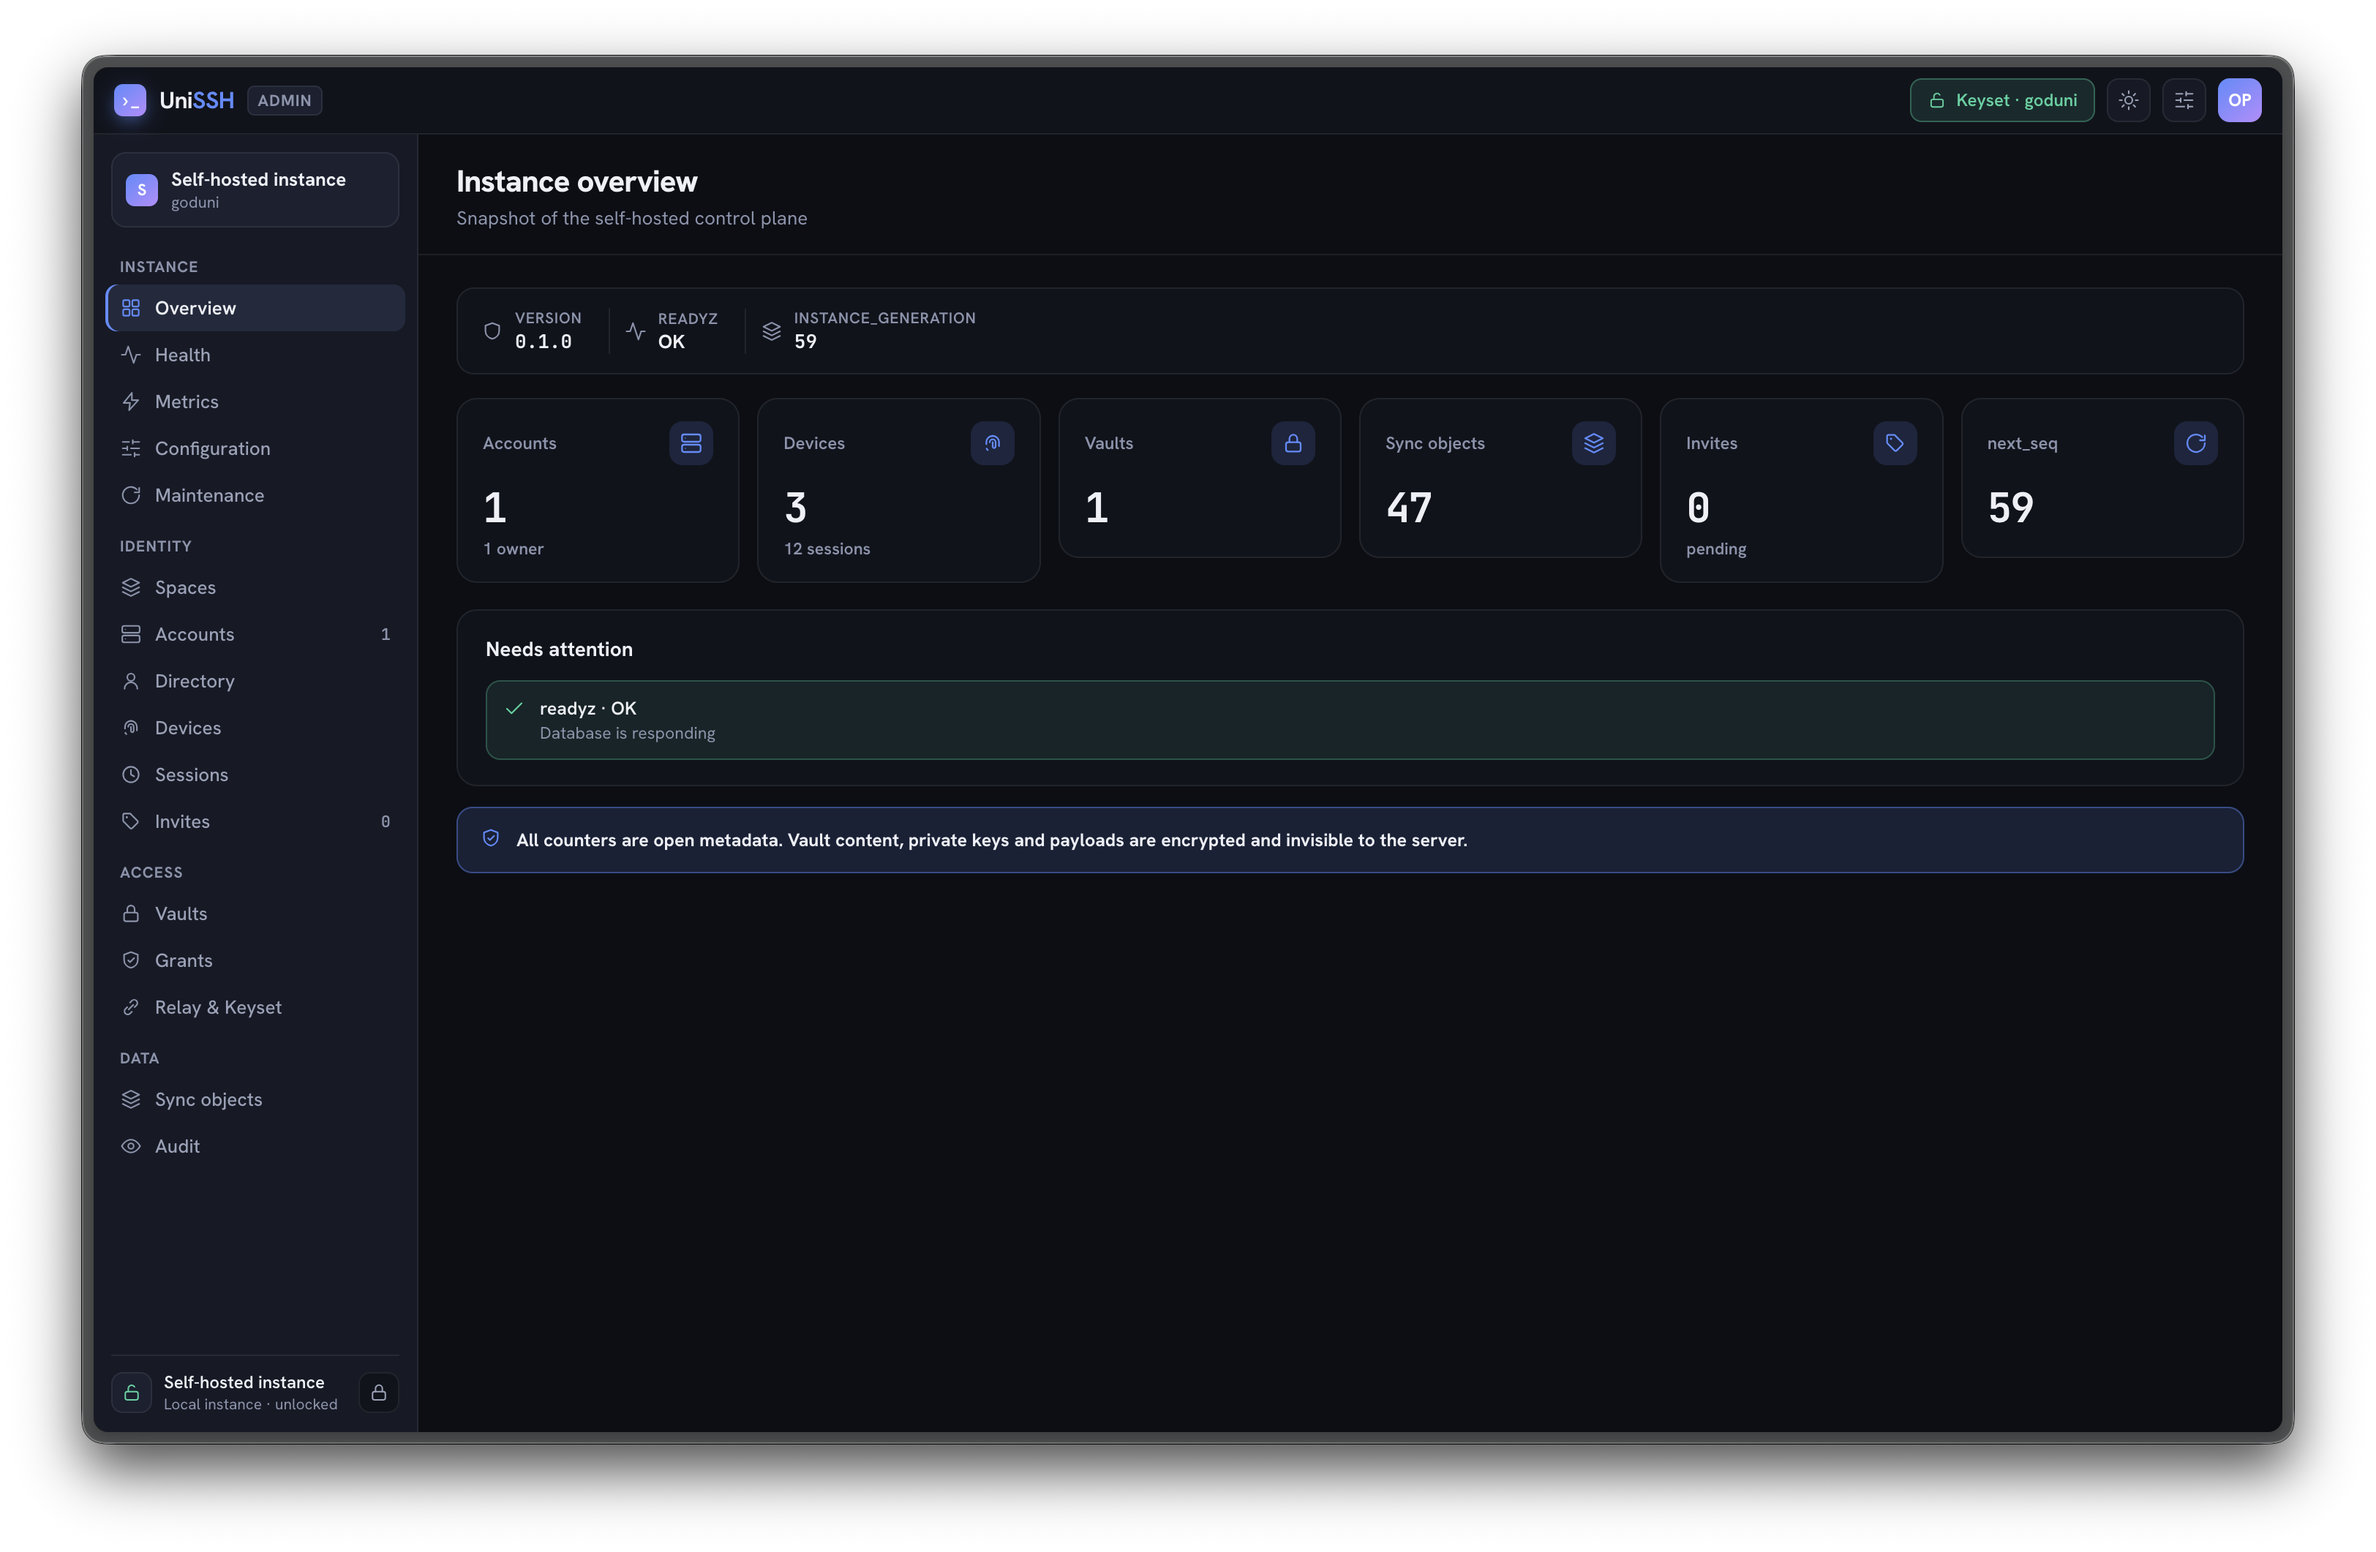
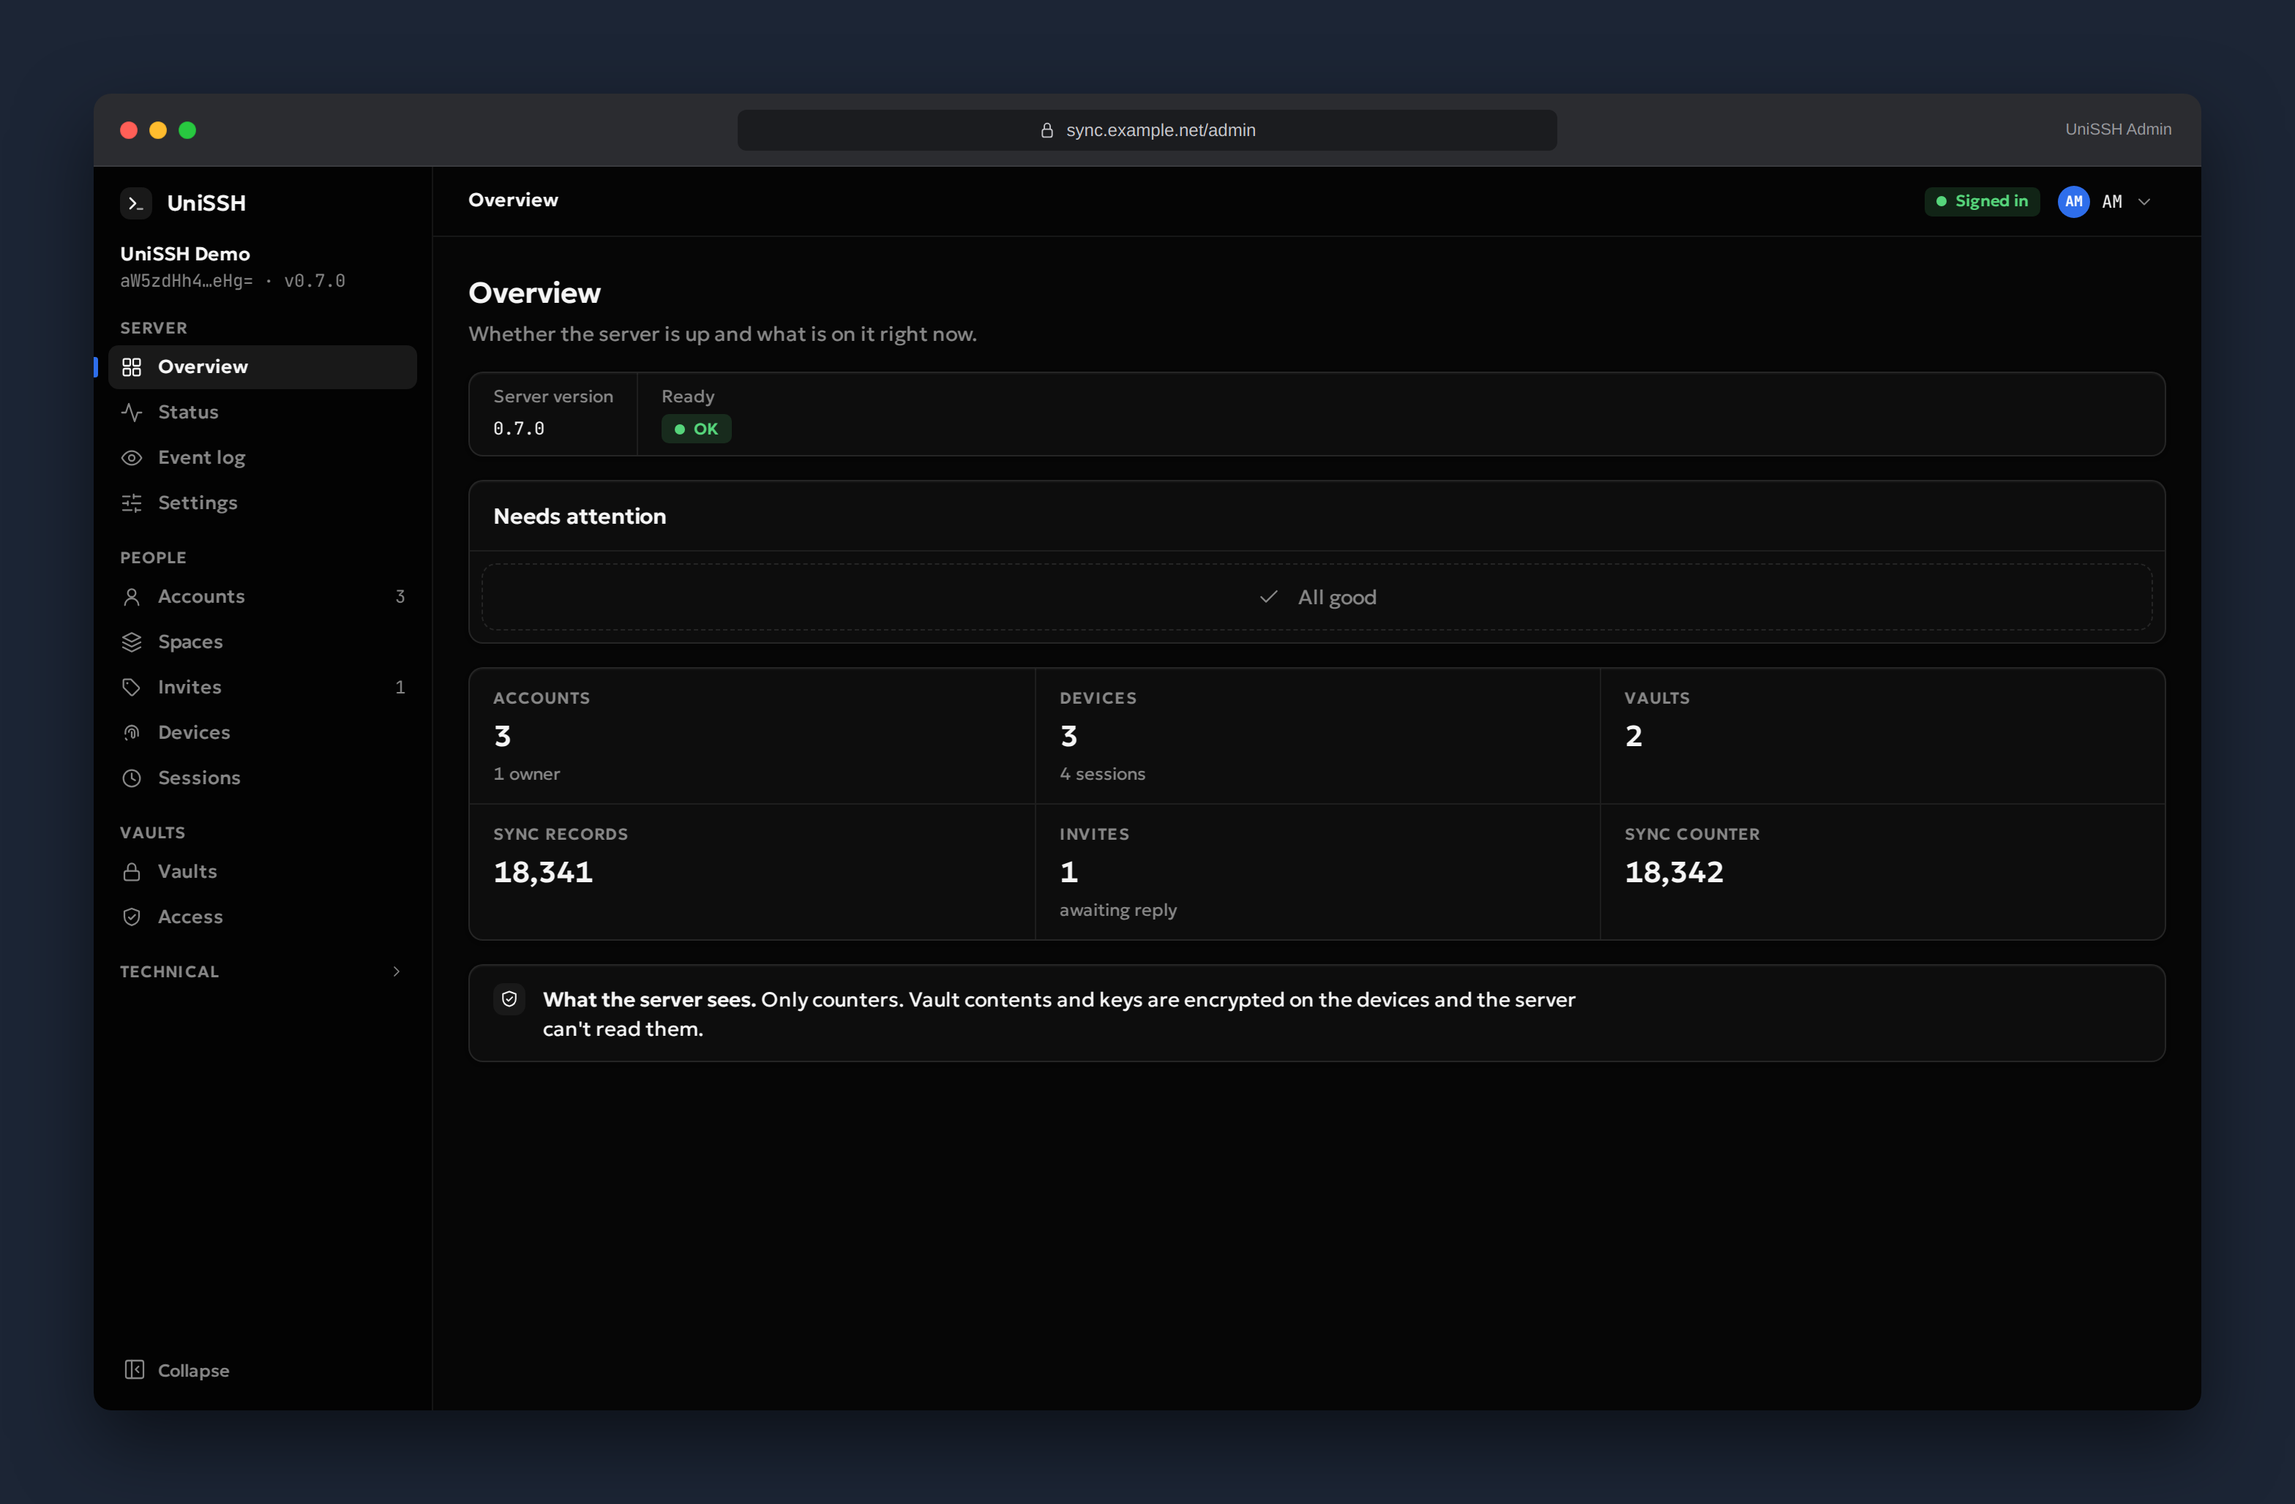
docs: refresh v0.7 screenshots with macOS framing

diff --git a/README.md b/README.md
@@ -289,27 +289,34 @@ Everything below is implemented in the shared Rust core and exposed to the clien
 
 ## Screenshots
 
-The host library is shown [at the top](#unissh) — dark mode, with the operations rail (terminals, SFTP, run) and the vault & network group (secrets, tunnels, known hosts) on the left, and the selected host's connection, auth, and host-key status on the right.
+The host library is shown [at the top](#unissh) — with colour tags and icons for hosts and groups,
+operations on the left, and the selected host's connection, auth, and host-key status on the right.
+These v0.7.0 captures use synthetic demo data and macOS-style window framing.
 
 **SFTP, two panes.** Any pane can hold any location — a different host in each, or your own machine
 alongside a remote one. Permissions and modification times are shown for what they are: read-only
 facts about the file, not fields to edit here.
 
-<img src="docs/screenshots/sftp-dark.png" alt="UniSSH SFTP — two panes, each browsing a different host" width="900">
+<img src="docs/screenshots/sftp-dark.png" alt="UniSSH SFTP — local files beside a remote host" width="900">
 
-**Broadcast.** One synchronized input mirrored to every live host at once, each tile showing that
-host's own output. Destructive commands re-confirm before they fan out.
+**Terminal splits.** Keep several SSH sessions side by side in one tab, with a separate terminal
+and connection state for each pane.
 
-<img src="docs/screenshots/broadcast-dark.png" alt="UniSSH Broadcast — one input mirrored to three live hosts" width="900">
+<img src="docs/screenshots/terminal-dark.png" alt="UniSSH terminals — two production hosts in a split tab" width="900">
 
-**Fleet exec.** The same command run across a selection, with each host's exit code and timing
-reported separately — bounded concurrency, and a stop that actually skips hosts that have not started.
+**MCP.** Choose which hosts each local AI application can reach, how long its access lasts, and
+whether commands need confirmation. Connections and command results appear in the activity feed.
 
-<img src="docs/screenshots/fleet-exec-dark.png" alt="UniSSH Fleet exec — one command across three hosts with per-host exit codes" width="900">
+<img src="docs/screenshots/mcp-dark.png" alt="UniSSH MCP — application access, selected hosts, and command activity" width="900">
 
-The rest of the client — terminal, secrets, tunnels, known hosts, recordings, snippets — and the
-server's admin panel are captured in [`docs/screenshots/`](docs/screenshots), viewable in the browser
-without cloning anything.
+**Administration.** The fully redesigned admin interface covers server status, accounts, spaces,
+devices, vault access, and the audit log. Vault contents remain encrypted on the devices.
+
+<img src="docs/screenshots/admin-dark.png" alt="UniSSH administration — redesigned server overview" width="900">
+
+See the [screenshot gallery](docs/screenshots/README.md) for light and dark versions of the client
+and admin panel, including accounts and audit. Earlier captures of other client features are kept
+there as well.
 
 ---
 

diff --git a/docs/screenshots/README.md b/docs/screenshots/README.md
@@ -1,0 +1,32 @@
+# UniSSH screenshots
+
+The v0.7.0 gallery shows the current client and the fully redesigned administration panel in
+light and dark mode. All hosts, accounts, file listings, counters, and terminal output are synthetic
+demo data. Domains use the reserved `example.net` namespace.
+
+The images are rendered from the product's React interfaces with fixture-backed native/API calls.
+macOS window controls, rounded window edges, a backdrop, and the admin panel's browser frame are
+added for presentation. These are browser-rendered screenshots, not native macOS runtime tests.
+Each PNG is 3136 × 2056 pixels (2× scale).
+
+| Screen | Dark | Light |
+| --- | --- | --- |
+| Host library — colours, icons, groups, and connection details | [View](hosts-dark.png) | [View](hosts-light.png) |
+| Terminal — two SSH sessions in a split tab | [View](terminal-dark.png) | [View](terminal-light.png) |
+| SFTP — local and remote file panes | [View](sftp-dark.png) | [View](sftp-light.png) |
+| MCP — application access and command activity | [View](mcp-dark.png) | [View](mcp-light.png) |
+| Administration — server overview | [View](admin-dark.png) | [View](admin-light.png) |
+| Administration — accounts | [View](admin-accounts-dark.png) | [View](admin-accounts-light.png) |
+| Administration — audit log | [View](admin-audit-dark.png) | [View](admin-audit-light.png) |
+
+<img src="hosts-dark.png" alt="UniSSH host library in dark mode with macOS-style window framing" width="900">
+
+<img src="admin-light.png" alt="UniSSH administration overview in light mode inside a macOS-style browser window" width="900">
+
+## Earlier releases
+
+The following screenshots predate v0.7.0 and show earlier interface versions:
+[Broadcast](broadcast-dark.png), [Fleet exec](fleet-exec-dark.png),
+[secrets](secrets-dark.png), [tunnels](tunnels-dark.png),
+[known hosts](known-hosts-dark.png), [recordings](recordings-dark.png),
+and [snippets](snippets-dark.png).
